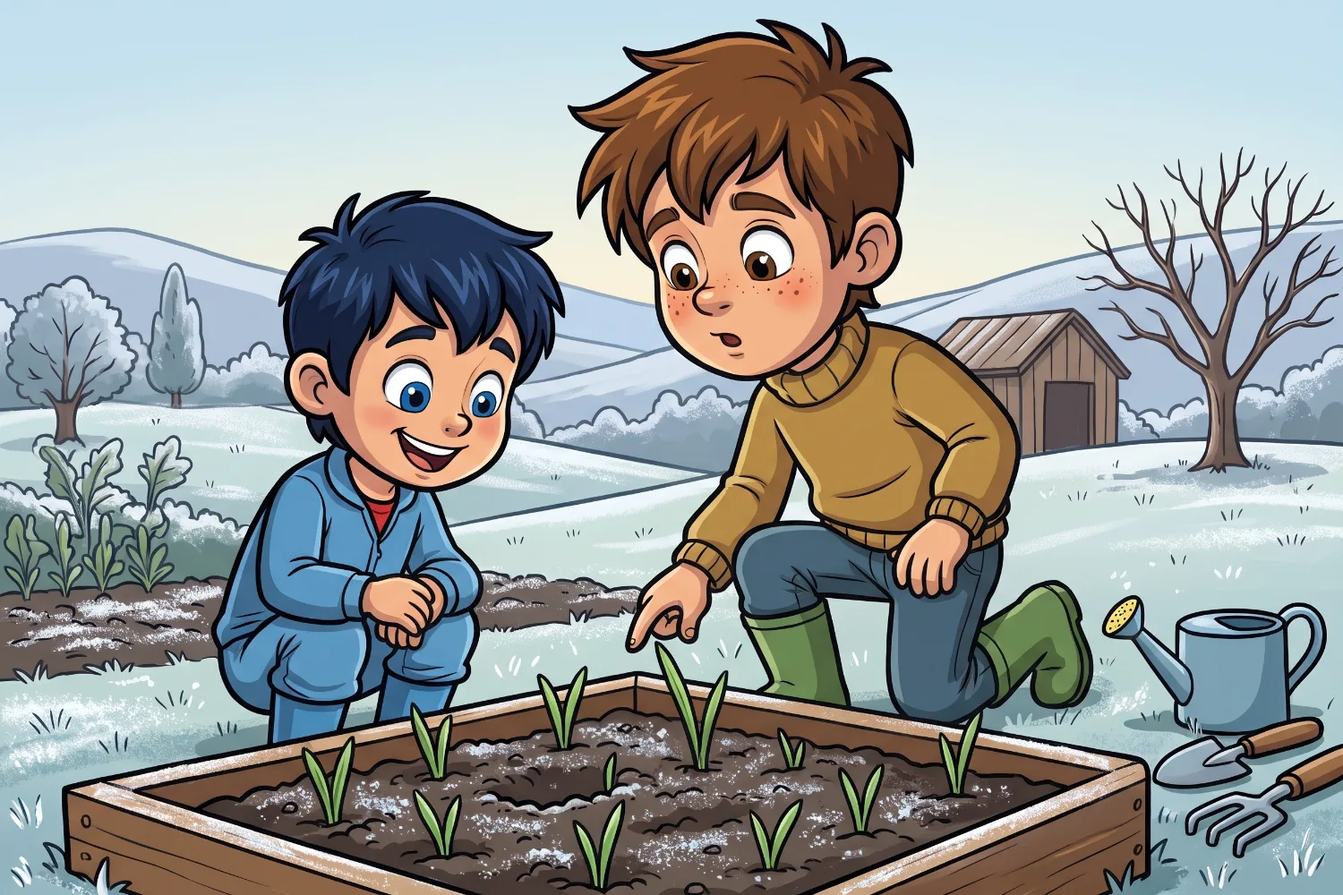
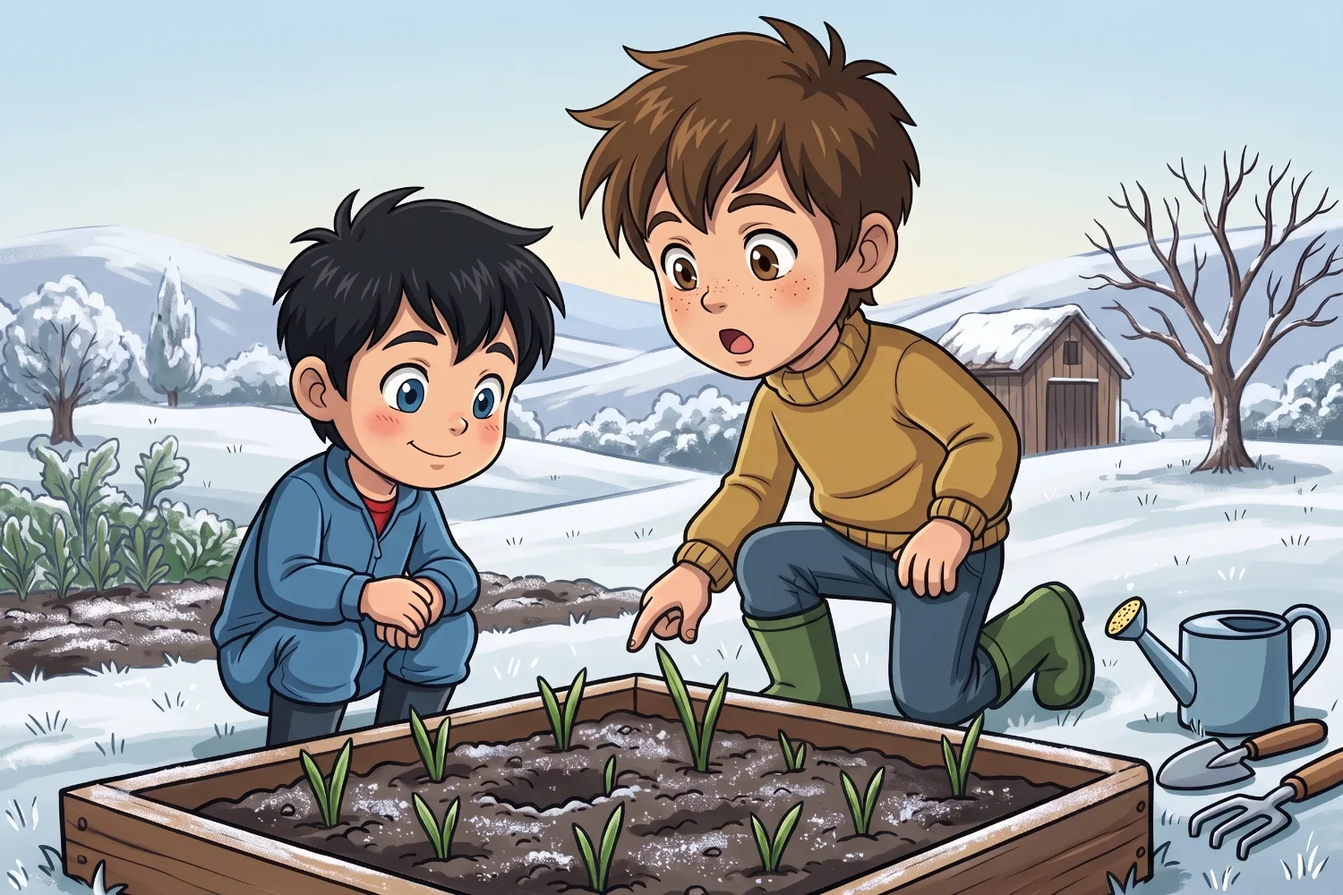
Add files via upload

diff --git a/tom.html b/tom.html
@@ -118,7 +118,7 @@
     <section aria-labelledby="h-village" style="display: flex; flex-direction: column; gap: var(--space-4);"><div style="width: 100%;"><img src="images/tom/histoire/village.webp" alt="La maison et la grange de Tom au bord de la route" width="1200" height="600" loading="lazy" decoding="async" style="display: block; width: 100%; height: auto; aspect-ratio: 2 / 1; object-fit: cover; border-radius: 24px; background: var(--color-accent-100);"></div><div style="display: flex; flex-direction: column; gap: var(--space-3); max-width: 760px;"><h2 id="h-village" style="margin: 0; font-size: clamp(28px, 3.4vw, 40px); line-height: 1.1; color: var(--color-accent-900);">Ma maison, ma ferme</h2><p style="margin: 0; font-size: 19px; line-height: 1.6; text-wrap: pretty; color: var(--color-text);">Voici ma maison en briques rouges, au bord de la petite route. Juste à côté, il y a ma vieille grange pour ranger mes outils, et au fond, la niche de Pilou. Frettecuisse, c’est quelques maisons, des champs à perte de vue… et beaucoup de vent ! Ici, tout le monde se connaît : quand mes tomates sont mûres, j’en donne à mes voisins, et eux me donnent du miel ou de la confiture.</p></div></section>
     <section aria-labelledby="h-enfance" style="display: flex; flex-wrap: wrap; gap: clamp(24px, 4vw, 56px); align-items: center; flex-direction: row-reverse;"><div style="flex: 1 1 320px; min-width: 0; max-width: 520px;"><img src="images/tom/histoire/enfance.webp" alt="Tom enfant, tout fier de son premier radis" width="1200" height="900" loading="lazy" decoding="async" style="display: block; width: 100%; height: auto; aspect-ratio: 4 / 3; object-fit: cover; border-radius: 24px; background: var(--color-accent-100);"></div><div style="flex: 1 1 320px; min-width: 0; display: flex; flex-direction: column; gap: var(--space-3); max-width: 560px;"><h2 id="h-enfance" style="margin: 0; font-size: clamp(28px, 3.4vw, 40px); line-height: 1.1; color: var(--color-accent-900);">Quand j’étais petit</h2><p style="margin: 0; font-size: 19px; line-height: 1.6; text-wrap: pretty; color: var(--color-text);">J’ai grandi dans cette ferme avec mon petit frère. Nos parents nous ont laissé un carré de potager quand j’avais 6 ans. J’y ai semé des radis… et j’allais les regarder pousser tous les matins avant l’école ! Mes premiers radis étaient tout tordus, mais je les ai trouvés délicieux.</p></div></section>
     <section aria-labelledby="h-journee" style="display: flex; flex-direction: column; gap: var(--space-4); padding: clamp(20px, 4vw, 40px); background: var(--color-accent-100); border-radius: 32px;"><div style="display: flex; gap: var(--space-4); align-items: center; flex-wrap: wrap;"><img src="images/tom/home.webp" alt="" width="800" height="800" style="flex: none; width: 96px; height: 96px; border-radius: 52% 48% 46% 54% / 48% 54% 46% 52%; object-fit: cover; display: block; background: var(--color-accent-200);"><div style="flex: 1 1 280px; display: flex; flex-direction: column; gap: 4px;"><h2 id="h-journee" style="margin: 0; font-size: clamp(28px, 3.4vw, 40px); line-height: 1.1; color: var(--color-accent-900);">Ma journée à la ferme</h2><p style="margin: 0; font-size: 19px; line-height: 1.6; text-wrap: pretty; color: var(--color-text);">Chaque saison, j’ai un travail différent. Voilà ce que je fais dans l’année :</p></div></div><ul style="list-style: none; margin: 0; padding: 0; display: grid; grid-template-columns: repeat(auto-fit, minmax(min(100%, 220px), 1fr)); gap: var(--space-3);"><li style="display: flex; flex-direction: column; gap: var(--space-2); padding: var(--space-6); background: #ffffff; border-radius: var(--radius-lg);"><span aria-hidden="true" style="font-size: 44px; line-height: 1;">🌱</span><span style="font-family: var(--font-heading); font-size: 22px; color: var(--color-accent-800);">Au printemps</span><span style="font-size: 17px; line-height: 1.5;">Je sème les graines et je plante les petits plants au potager.</span></li><li style="display: flex; flex-direction: column; gap: var(--space-2); padding: var(--space-6); background: #ffffff; border-radius: var(--radius-lg);"><span aria-hidden="true" style="font-size: 44px; line-height: 1;">☀</span><span style="font-family: var(--font-heading); font-size: 22px; color: var(--color-accent-800);">En été</span><span style="font-size: 17px; line-height: 1.5;">Je récolte les tomates, les courgettes et les fraises… et j’arrose beaucoup !</span></li><li style="display: flex; flex-direction: column; gap: var(--space-2); padding: var(--space-6); background: #ffffff; border-radius: var(--radius-lg);"><span aria-hidden="true" style="font-size: 44px; line-height: 1;">🍎</span><span style="font-family: var(--font-heading); font-size: 22px; color: var(--color-accent-800);">En automne</span><span style="font-size: 17px; line-height: 1.5;">Je cueille les pommes et les poires du verger, et je rentre les potirons.</span></li><li style="display: flex; flex-direction: column; gap: var(--space-2); padding: var(--space-6); background: #ffffff; border-radius: var(--radius-lg);"><span aria-hidden="true" style="font-size: 44px; line-height: 1;">❄</span><span style="font-family: var(--font-heading); font-size: 22px; color: var(--color-accent-800);">En hiver</span><span style="font-size: 17px; line-height: 1.5;">Je taille les arbres fruitiers et je prépare les graines du printemps.</span></li></ul></section>
-    <section aria-labelledby="h-pilou" style="display: flex; flex-wrap: wrap; gap: clamp(24px, 4vw, 56px); align-items: center;"><div style="flex: 1 1 320px; min-width: 0; max-width: 520px;"><img src="images/tom/histoire/pilou.webp" alt="Tom fait un câlin à Pilou, son chien" width="1200" height="900" loading="lazy" decoding="async" style="display: block; width: 100%; height: auto; aspect-ratio: 4 / 3; object-fit: cover; border-radius: 24px; background: var(--color-accent-100);"></div><div style="flex: 1 1 320px; min-width: 0; display: flex; flex-direction: column; gap: var(--space-3); max-width: 560px;"><h2 id="h-pilou" style="margin: 0; font-size: clamp(28px, 3.4vw, 40px); line-height: 1.1; color: var(--color-accent-900);">Pilou, mon chien</h2><p style="margin: 0; font-size: 19px; line-height: 1.6; text-wrap: pretty; color: var(--color-text);">Pilou est un Golden Retriever, avec des poils tout doux et une queue qui ne s’arrête jamais de remuer. Il me suit partout : dans le verger, sur le tracteur, et même jusqu’à la porte du poulailler. Son travail préféré ? Chasser les corbeaux qui viennent picorer mes semis !</p></div></section>
+    <section aria-labelledby="h-pilou" style="display: flex; flex-wrap: wrap; gap: clamp(24px, 4vw, 56px); align-items: center;"><div style="flex: 1 1 320px; min-width: 0; max-width: 520px;"><img src="images/tom/histoire/pilou.webp" alt="Tom fait un câlin à Pilou, son chien" width="1200" height="900" loading="lazy" decoding="async" style="display: block; width: 100%; height: auto; aspect-ratio: 4 / 3; object-fit: cover; border-radius: 24px; background: var(--color-accent-100);"></div><div style="flex: 1 1 320px; min-width: 0; display: flex; flex-direction: column; gap: var(--space-3); max-width: 560px;"><h2 id="h-pilou" style="margin: 0; font-size: clamp(28px, 3.4vw, 40px); line-height: 1.1; color: var(--color-accent-900);">Pilou, mon chien</h2><p style="margin: 0; font-size: 19px; line-height: 1.6; text-wrap: pretty; color: var(--color-text);">Pilou est un patou, un grand chien de montagne tout blanc, avec des poils épais et tout doux. Le patou, c’est le gardien des troupeaux : il veille sur mes poules comme sur sa propre famille. Il me suit partout : dans le verger, sur le tracteur, et même jusqu’à la porte du poulailler. Son travail préféré ? Chasser les corbeaux qui viennent picorer mes semis !</p></div></section>
     <section aria-labelledby="h-poules" style="display: flex; flex-wrap: wrap; gap: clamp(24px, 4vw, 56px); align-items: center; flex-direction: row-reverse;"><div style="flex: 1 1 320px; min-width: 0; max-width: 520px;"><img src="images/tom/histoire/poules.webp" alt="Les poules de Tom dans la cour, près du tracteur" width="1200" height="900" loading="lazy" decoding="async" style="display: block; width: 100%; height: auto; aspect-ratio: 4 / 3; object-fit: cover; border-radius: 24px; background: var(--color-accent-100);"></div><div style="flex: 1 1 320px; min-width: 0; display: flex; flex-direction: column; gap: var(--space-3); max-width: 560px;"><h2 id="h-poules" style="margin: 0; font-size: clamp(28px, 3.4vw, 40px); line-height: 1.1; color: var(--color-accent-900);">Mes poules</h2><p style="margin: 0; font-size: 19px; line-height: 1.6; text-wrap: pretty; color: var(--color-text);">J’ai neuf poules : Cocotte, Paulette, Biscotte, Praline, Noisette, Plume, Grenade, Caramel et Madame Rose, la cheffe de la bande. Chaque matin, je vais chercher leurs œufs encore tout chauds. Elles mangent les épluchures du potager et, en échange, elles me donnent un super engrais !</p></div></section>
     <section aria-labelledby="h-ferme" style="display: flex; flex-direction: column; gap: var(--space-4);"><h2 id="h-ferme" style="margin: 0; font-size: clamp(28px, 3.4vw, 40px); line-height: 1.1; color: var(--color-accent-900);">Ma ferme</h2><p style="margin: 0; font-size: 19px; line-height: 1.6; text-wrap: pretty; color: var(--color-text);">Ma ferme a trois parcelles. Viens les visiter !</p><div style="display: grid; grid-template-columns: repeat(auto-fit, minmax(min(100%, 260px), 1fr)); gap: var(--space-4);"><a href="legumes.html" style="display: flex; gap: var(--space-4); align-items: center; padding: var(--space-6); background: var(--color-accent-100); border: 2px solid var(--color-accent-300); border-radius: var(--radius-lg); text-decoration: none; color: var(--color-accent-900);" style-hover="background: var(--color-accent-200); color: var(--color-accent-900);"><img src="images/tom/potager-s.webp" alt="" width="800" height="800" style="flex: none; width: 88px; height: 88px; border-radius: 49% 51% 55% 45% / 46% 52% 48% 54%; object-fit: cover; display: block; background: var(--color-accent-200);"><span style="display: flex; flex-direction: column; gap: 4px;"><span style="font-family: var(--font-heading); font-size: 24px;">Mon potager</span><span style="font-size: 15px;">Mes légumes, rang par rang.</span></span></a><a href="fruits.html" style="display: flex; gap: var(--space-4); align-items: center; padding: var(--space-6); background: var(--color-accent-100); border: 2px solid var(--color-accent-300); border-radius: var(--radius-lg); text-decoration: none; color: var(--color-accent-900);" style-hover="background: var(--color-accent-200); color: var(--color-accent-900);"><img src="images/tom/verger-s.webp" alt="" width="800" height="800" style="flex: none; width: 88px; height: 88px; border-radius: 47% 53% 51% 49% / 53% 47% 52% 48%; object-fit: cover; display: block; background: var(--color-accent-200);"><span style="display: flex; flex-direction: column; gap: 4px;"><span style="font-family: var(--font-heading); font-size: 24px;">Mon verger</span><span style="font-size: 15px;">Mes arbres à fruits.</span></span></a><a href="fleurs.html" style="display: flex; gap: var(--space-4); align-items: center; padding: var(--space-6); background: var(--color-accent-100); border: 2px solid var(--color-accent-300); border-radius: var(--radius-lg); text-decoration: none; color: var(--color-accent-900);" style-hover="background: var(--color-accent-200); color: var(--color-accent-900);"><img src="images/tom/jardin-s.webp" alt="" width="800" height="800" style="flex: none; width: 88px; height: 88px; border-radius: 52% 48% 46% 54% / 48% 54% 46% 52%; object-fit: cover; display: block; background: var(--color-accent-200);"><span style="display: flex; flex-direction: column; gap: 4px;"><span style="font-family: var(--font-heading); font-size: 24px;">Mon jardin</span><span style="font-size: 15px;">Mes fleurs de saison.</span></span></a></div></section>
     <section aria-labelledby="h-oups" style="display: flex; gap: var(--space-4); align-items: center; flex-wrap: wrap; max-width: 860px;"><img src="images/tom/oups.webp" alt="" width="800" height="800" style="flex: none; width: 120px; height: 120px; border-radius: 49% 51% 55% 45% / 46% 52% 48% 54%; object-fit: cover; display: block; background: var(--color-accent-200);"><div style="flex: 1 1 320px; min-width: 0; display: flex; flex-direction: column; gap: var(--space-2);"><h2 id="h-oups" style="margin: 0; font-size: clamp(28px, 3.4vw, 40px); line-height: 1.1; color: var(--color-accent-900);">Ma plus grosse bêtise</h2><p style="margin: 0; font-size: 19px; line-height: 1.6; text-wrap: pretty; color: var(--color-text);">Un jour, j’ai planté de la menthe directement dans la terre du potager. Erreur ! En un été, elle a tout envahi, jusque sous les fraisiers. Depuis, ma menthe pousse toujours en pot. Toi aussi, retiens bien ça !</p></div></section>

diff --git a/en/tom.html b/en/tom.html
@@ -119,7 +119,7 @@
     <section aria-labelledby="h-village" style="display: flex; flex-direction: column; gap: var(--space-4);"><div style="width: 100%;"><img src="../images/tom/histoire/village.webp" alt="Tom’s house and barn by the road" width="1200" height="600" loading="lazy" decoding="async" style="display: block; width: 100%; height: auto; aspect-ratio: 2 / 1; object-fit: cover; border-radius: 24px; background: var(--color-accent-100);"></div><div style="display: flex; flex-direction: column; gap: var(--space-3); max-width: 760px;"><h2 id="h-village" style="margin: 0; font-size: clamp(28px, 3.4vw, 40px); line-height: 1.1; color: var(--color-accent-900);">My house, my farm</h2><p style="margin: 0; font-size: 19px; line-height: 1.6; text-wrap: pretty; color: var(--color-text);">This is my red-brick house, by the little country road. Right next to it is my old barn where I keep my tools, and at the back, Pilou’s kennel. Frettecuisse is a few houses, fields as far as the eye can see… and lots of wind! Everybody knows everybody here: when my tomatoes are ripe, I give some to my neighbours, and they give me honey or jam.</p></div></section>
     <section aria-labelledby="h-enfance" style="display: flex; flex-wrap: wrap; gap: clamp(24px, 4vw, 56px); align-items: center; flex-direction: row-reverse;"><div style="flex: 1 1 320px; min-width: 0; max-width: 520px;"><img src="../images/tom/histoire/enfance.webp" alt="Tom as a boy, proud of his first radish" width="1200" height="900" loading="lazy" decoding="async" style="display: block; width: 100%; height: auto; aspect-ratio: 4 / 3; object-fit: cover; border-radius: 24px; background: var(--color-accent-100);"></div><div style="flex: 1 1 320px; min-width: 0; display: flex; flex-direction: column; gap: var(--space-3); max-width: 560px;"><h2 id="h-enfance" style="margin: 0; font-size: clamp(28px, 3.4vw, 40px); line-height: 1.1; color: var(--color-accent-900);">When I was little</h2><p style="margin: 0; font-size: 19px; line-height: 1.6; text-wrap: pretty; color: var(--color-text);">I grew up on this farm with my little brother. Our parents let us have a vegetable patch when I was 6. I sowed radishes… and went to watch them grow every morning before school! My first radishes were all crooked, but I thought they were delicious.</p></div></section>
     <section aria-labelledby="h-journee" style="display: flex; flex-direction: column; gap: var(--space-4); padding: clamp(20px, 4vw, 40px); background: var(--color-accent-100); border-radius: 32px;"><div style="display: flex; gap: var(--space-4); align-items: center; flex-wrap: wrap;"><img src="../images/tom/home.webp" alt="" width="800" height="800" style="flex: none; width: 96px; height: 96px; border-radius: 52% 48% 46% 54% / 48% 54% 46% 52%; object-fit: cover; display: block; background: var(--color-accent-200);"><div style="flex: 1 1 280px; display: flex; flex-direction: column; gap: 4px;"><h2 id="h-journee" style="margin: 0; font-size: clamp(28px, 3.4vw, 40px); line-height: 1.1; color: var(--color-accent-900);">My day on the farm</h2><p style="margin: 0; font-size: 19px; line-height: 1.6; text-wrap: pretty; color: var(--color-text);">Every season I have a different job. Here’s what I do through the year:</p></div></div><ul style="list-style: none; margin: 0; padding: 0; display: grid; grid-template-columns: repeat(auto-fit, minmax(min(100%, 220px), 1fr)); gap: var(--space-3);"><li style="display: flex; flex-direction: column; gap: var(--space-2); padding: var(--space-6); background: #ffffff; border-radius: var(--radius-lg);"><span aria-hidden="true" style="font-size: 44px; line-height: 1;">🌱</span><span style="font-family: var(--font-heading); font-size: 22px; color: var(--color-accent-800);">In spring</span><span style="font-size: 17px; line-height: 1.5;">I sow seeds and plant the little seedlings in the vegetable garden.</span></li><li style="display: flex; flex-direction: column; gap: var(--space-2); padding: var(--space-6); background: #ffffff; border-radius: var(--radius-lg);"><span aria-hidden="true" style="font-size: 44px; line-height: 1;">☀</span><span style="font-family: var(--font-heading); font-size: 22px; color: var(--color-accent-800);">In summer</span><span style="font-size: 17px; line-height: 1.5;">I pick tomatoes, courgettes and strawberries… and I water a lot!</span></li><li style="display: flex; flex-direction: column; gap: var(--space-2); padding: var(--space-6); background: #ffffff; border-radius: var(--radius-lg);"><span aria-hidden="true" style="font-size: 44px; line-height: 1;">🍎</span><span style="font-family: var(--font-heading); font-size: 22px; color: var(--color-accent-800);">In autumn</span><span style="font-size: 17px; line-height: 1.5;">I pick apples and pears in the orchard and bring in the pumpkins.</span></li><li style="display: flex; flex-direction: column; gap: var(--space-2); padding: var(--space-6); background: #ffffff; border-radius: var(--radius-lg);"><span aria-hidden="true" style="font-size: 44px; line-height: 1;">❄</span><span style="font-family: var(--font-heading); font-size: 22px; color: var(--color-accent-800);">In winter</span><span style="font-size: 17px; line-height: 1.5;">I prune the fruit trees and get the seeds ready for spring.</span></li></ul></section>
-    <section aria-labelledby="h-pilou" style="display: flex; flex-wrap: wrap; gap: clamp(24px, 4vw, 56px); align-items: center;"><div style="flex: 1 1 320px; min-width: 0; max-width: 520px;"><img src="../images/tom/histoire/pilou.webp" alt="Tom hugging Pilou, his dog" width="1200" height="900" loading="lazy" decoding="async" style="display: block; width: 100%; height: auto; aspect-ratio: 4 / 3; object-fit: cover; border-radius: 24px; background: var(--color-accent-100);"></div><div style="flex: 1 1 320px; min-width: 0; display: flex; flex-direction: column; gap: var(--space-3); max-width: 560px;"><h2 id="h-pilou" style="margin: 0; font-size: clamp(28px, 3.4vw, 40px); line-height: 1.1; color: var(--color-accent-900);">Pilou, my dog</h2><p style="margin: 0; font-size: 19px; line-height: 1.6; text-wrap: pretty; color: var(--color-text);">Pilou is a Golden Retriever with soft fur and a tail that never stops wagging. He follows me everywhere: into the orchard, onto the tractor, right up to the henhouse door. His favourite job? Chasing away the crows that peck at my seedlings!</p></div></section>
+    <section aria-labelledby="h-pilou" style="display: flex; flex-wrap: wrap; gap: clamp(24px, 4vw, 56px); align-items: center;"><div style="flex: 1 1 320px; min-width: 0; max-width: 520px;"><img src="../images/tom/histoire/pilou.webp" alt="Tom hugging Pilou, his dog" width="1200" height="900" loading="lazy" decoding="async" style="display: block; width: 100%; height: auto; aspect-ratio: 4 / 3; object-fit: cover; border-radius: 24px; background: var(--color-accent-100);"></div><div style="flex: 1 1 320px; min-width: 0; display: flex; flex-direction: column; gap: var(--space-3); max-width: 560px;"><h2 id="h-pilou" style="margin: 0; font-size: clamp(28px, 3.4vw, 40px); line-height: 1.1; color: var(--color-accent-900);">Pilou, my dog</h2><p style="margin: 0; font-size: 19px; line-height: 1.6; text-wrap: pretty; color: var(--color-text);">Pilou is a Pyrenean Mountain Dog (a “patou”): big, snow-white and fluffy. Patous are guardian dogs, and he watches over my hens like they’re his own family. He follows me everywhere: into the orchard, onto the tractor, right up to the henhouse door. His favourite job? Chasing away the crows that peck at my seedlings!</p></div></section>
     <section aria-labelledby="h-poules" style="display: flex; flex-wrap: wrap; gap: clamp(24px, 4vw, 56px); align-items: center; flex-direction: row-reverse;"><div style="flex: 1 1 320px; min-width: 0; max-width: 520px;"><img src="../images/tom/histoire/poules.webp" alt="Tom’s hens in the yard, by the tractor" width="1200" height="900" loading="lazy" decoding="async" style="display: block; width: 100%; height: auto; aspect-ratio: 4 / 3; object-fit: cover; border-radius: 24px; background: var(--color-accent-100);"></div><div style="flex: 1 1 320px; min-width: 0; display: flex; flex-direction: column; gap: var(--space-3); max-width: 560px;"><h2 id="h-poules" style="margin: 0; font-size: clamp(28px, 3.4vw, 40px); line-height: 1.1; color: var(--color-accent-900);">My hens</h2><p style="margin: 0; font-size: 19px; line-height: 1.6; text-wrap: pretty; color: var(--color-text);">I have nine hens: Cocotte, Paulette, Biscotte, Praline, Noisette, Plume, Grenade, Caramel and Madame Rose, the boss of the gang. Every morning I collect their eggs, still warm. They eat the peelings from the vegetable garden and, in return, give me great fertiliser!</p></div></section>
     <section aria-labelledby="h-ferme" style="display: flex; flex-direction: column; gap: var(--space-4);"><h2 id="h-ferme" style="margin: 0; font-size: clamp(28px, 3.4vw, 40px); line-height: 1.1; color: var(--color-accent-900);">My farm</h2><p style="margin: 0; font-size: 19px; line-height: 1.6; text-wrap: pretty; color: var(--color-text);">My farm has three plots. Come and visit!</p><div style="display: grid; grid-template-columns: repeat(auto-fit, minmax(min(100%, 260px), 1fr)); gap: var(--space-4);"><a href="legumes.html" style="display: flex; gap: var(--space-4); align-items: center; padding: var(--space-6); background: var(--color-accent-100); border: 2px solid var(--color-accent-300); border-radius: var(--radius-lg); text-decoration: none; color: var(--color-accent-900);" style-hover="background: var(--color-accent-200); color: var(--color-accent-900);"><img src="../images/tom/potager-s.webp" alt="" width="800" height="800" style="flex: none; width: 88px; height: 88px; border-radius: 49% 51% 55% 45% / 46% 52% 48% 54%; object-fit: cover; display: block; background: var(--color-accent-200);"><span style="display: flex; flex-direction: column; gap: 4px;"><span style="font-family: var(--font-heading); font-size: 24px;">My Veg Patch</span><span style="font-size: 15px;">My vegetables, row by row.</span></span></a><a href="fruits.html" style="display: flex; gap: var(--space-4); align-items: center; padding: var(--space-6); background: var(--color-accent-100); border: 2px solid var(--color-accent-300); border-radius: var(--radius-lg); text-decoration: none; color: var(--color-accent-900);" style-hover="background: var(--color-accent-200); color: var(--color-accent-900);"><img src="../images/tom/verger-s.webp" alt="" width="800" height="800" style="flex: none; width: 88px; height: 88px; border-radius: 47% 53% 51% 49% / 53% 47% 52% 48%; object-fit: cover; display: block; background: var(--color-accent-200);"><span style="display: flex; flex-direction: column; gap: 4px;"><span style="font-family: var(--font-heading); font-size: 24px;">My Orchard</span><span style="font-size: 15px;">My fruit trees.</span></span></a><a href="fleurs.html" style="display: flex; gap: var(--space-4); align-items: center; padding: var(--space-6); background: var(--color-accent-100); border: 2px solid var(--color-accent-300); border-radius: var(--radius-lg); text-decoration: none; color: var(--color-accent-900);" style-hover="background: var(--color-accent-200); color: var(--color-accent-900);"><img src="../images/tom/jardin-s.webp" alt="" width="800" height="800" style="flex: none; width: 88px; height: 88px; border-radius: 52% 48% 46% 54% / 48% 54% 46% 52%; object-fit: cover; display: block; background: var(--color-accent-200);"><span style="display: flex; flex-direction: column; gap: 4px;"><span style="font-family: var(--font-heading); font-size: 24px;">My Garden</span><span style="font-size: 15px;">My seasonal flowers.</span></span></a></div></section>
     <section aria-labelledby="h-oups" style="display: flex; gap: var(--space-4); align-items: center; flex-wrap: wrap; max-width: 860px;"><img src="../images/tom/oups.webp" alt="" width="800" height="800" style="flex: none; width: 120px; height: 120px; border-radius: 49% 51% 55% 45% / 46% 52% 48% 54%; object-fit: cover; display: block; background: var(--color-accent-200);"><div style="flex: 1 1 320px; min-width: 0; display: flex; flex-direction: column; gap: var(--space-2);"><h2 id="h-oups" style="margin: 0; font-size: clamp(28px, 3.4vw, 40px); line-height: 1.1; color: var(--color-accent-900);">My biggest blunder</h2><p style="margin: 0; font-size: 19px; line-height: 1.6; text-wrap: pretty; color: var(--color-text);">One day I planted mint straight into the soil of my vegetable garden. Big mistake! In one summer it took over everything, even under the strawberries. Since then my mint always grows in a pot. You remember that too!</p></div></section>

diff --git a/histoires-data.js b/histoires-data.js
@@ -105,7 +105,7 @@
       'Papa m’a laissé montrer aux autres comment cueillir une pomme sans abîmer l’arbre : on la soulève doucement et on la fait tourner. Si elle est mûre, elle se détache toute seule. Si elle résiste, c’est qu’elle n’est pas prête.',
       'Lina, ma voisine de table, a trouvé un ver dans sa pomme. Elle a poussé un cri. Je lui ai expliqué que c’était plutôt bon signe : ça voulait dire que le pommier n’avait pas reçu de produits chimiques. Elle a regardé le ver de plus près et elle l’a appelé Gaston.',
       'Ensuite, on a mis les pommes dans le vieux pressoir. Chacun tournait la manivelle à son tour, et le jus coulait, tout doré, dans un grand seau. Pilou essayait de laper les gouttes qui tombaient par terre.',
-      'Avant de partir, chaque enfant a reçu un petit sac de pommes et un verre de jus. Lina m’a fait un dessin : un tracteur rouge, un grand chien doré et un petit garçon avec un bonnet. Je l’ai gardé. Il est accroché dans ma cuisine, encore aujourd’hui.'
+      'Avant de partir, chaque enfant a reçu un petit sac de pommes et un verre de jus. Lina m’a fait un dessin : un tracteur rouge, un grand chien tout blanc et un petit garçon avec un bonnet. Je l’ai gardé. Il est accroché dans ma cuisine, encore aujourd’hui.'
     ] },
     { mois: 'Octobre', titre: 'La plus grosse citrouille du village', illus: 'Fin d’été dans le carré des deux frères : le jeune Pilou dort contre une citrouille énorme, Tom et Arno enfants l’arrosent', illus2: 'Sur la place du village, Pilou avec sa médaille, la tête posée sur la citrouille, Tom et Arno enfants fiers, tout le village applaudit', apres: 7, p: [
       'Chaque année, en octobre, Frettecuisse organisait un grand concours : celui de la plus grosse citrouille. Et chaque année, c’était Monsieur Dufour, un voisin moustachu, qui gagnait. Il était très fier. Un peu trop, même.',

diff --git a/sw.js b/sw.js
@@ -1,5 +1,5 @@
 // Service worker Sainos : hors ligne pour les pages visitées et le cœur du site.
-const V = 'sainos-v18';
+const V = 'sainos-v19';
 const CORE = ['./', 'index.html', 'legumes.html', 'fruits.html', 'liste.html', 'recettes.html', 'menu.html', 'jeux.html', 'offline.html',
   'produits-data.js', 'recettes-data.js', 'poissons-data.js', 'fromages-data.js', 'jardin-data.js', 'recherche.js', 'profil.js', 'support.js',
   'images/logo.webp', 'images/logo-mini.webp', 'favicon.png', 'icon-192.png', 'manifest.webmanifest'];
